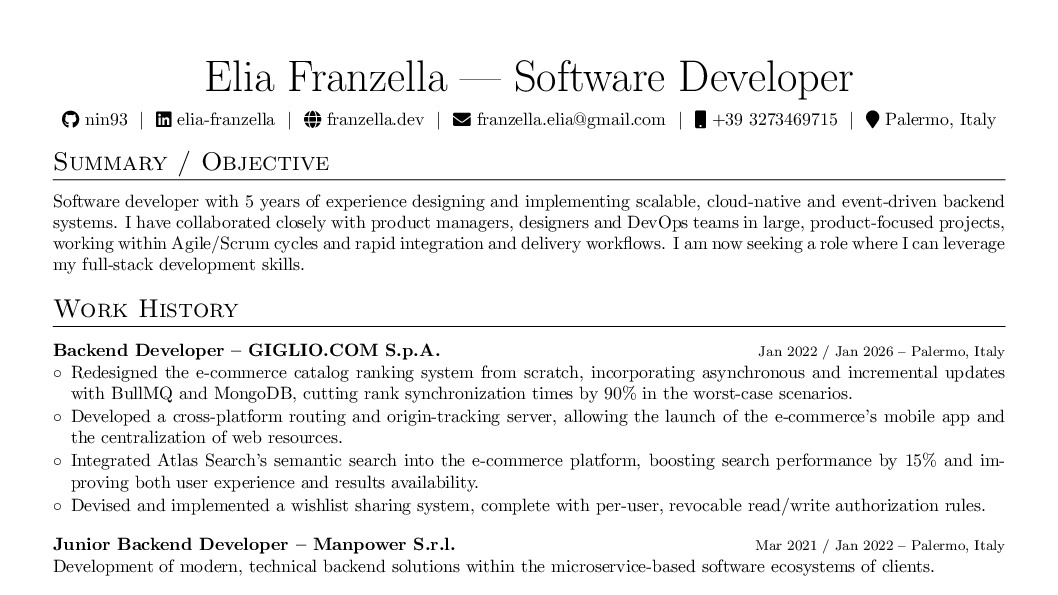
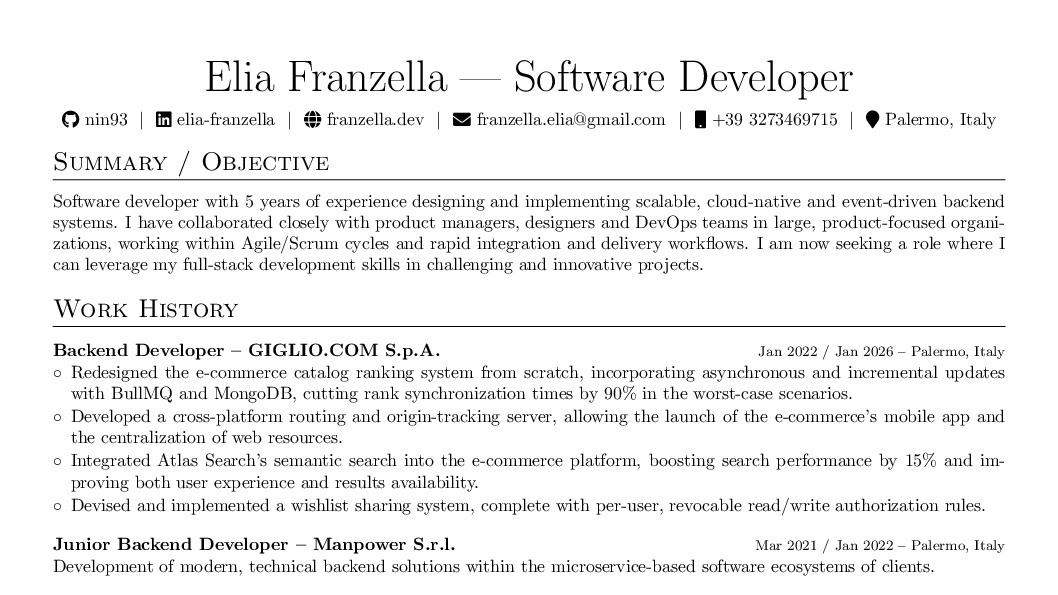
refactor: Add content to objective

Changed region(s): [[0.0312, 0.363, 0.9669, 0.4538]]

diff --git a/elia_franzella_cv_dev.tex b/elia_franzella_cv_dev.tex
@@ -130,7 +130,7 @@
 %----------------------------------------------------------------------------------------
 
 \section{Summary / Objective}
-Software developer with 5 years of experience designing and implementing scalable, cloud-native and event-driven backend systems. I have collaborated closely with product managers, designers and DevOps teams in large, product-focused projects, working within Agile/Scrum cycles and rapid integration and delivery workflows. I am now seeking a role where I can leverage my full-stack development skills.
+Software developer with 5 years of experience designing and implementing scalable, cloud-native and event-driven backend systems. I have collaborated closely with product managers, designers and DevOps teams in large, product-focused organizations, working within Agile/Scrum cycles and rapid integration and delivery workflows. I am now seeking a role where I can leverage my full-stack development skills in challenging and innovative projects.
 
 %----------------------------------------------------------------------------------------
 %   WORK HISTORY
